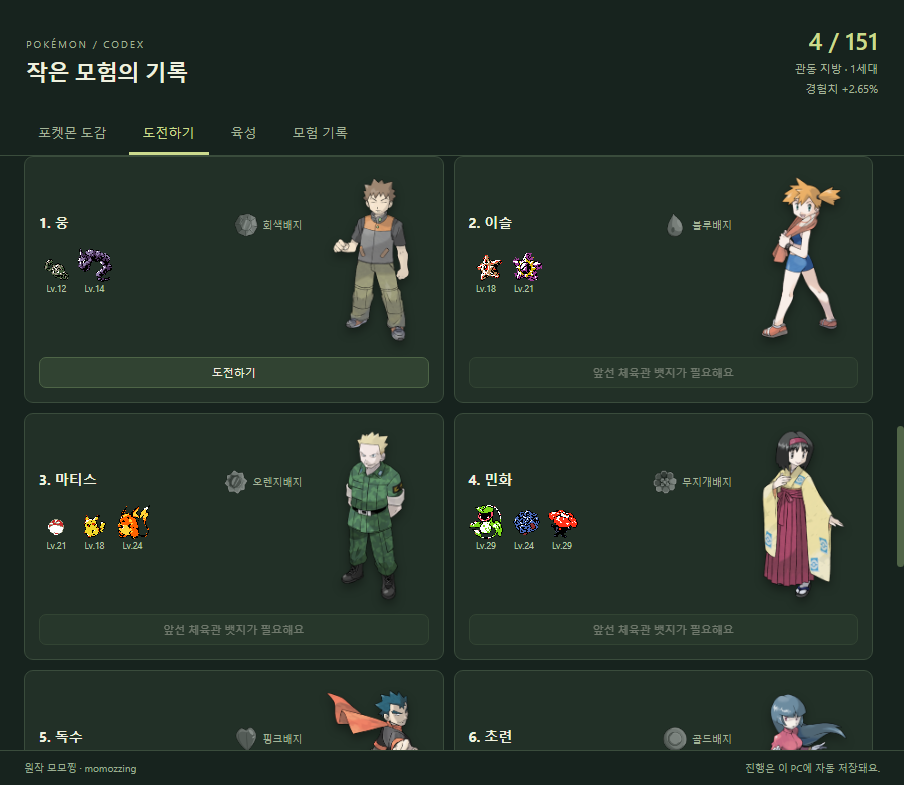
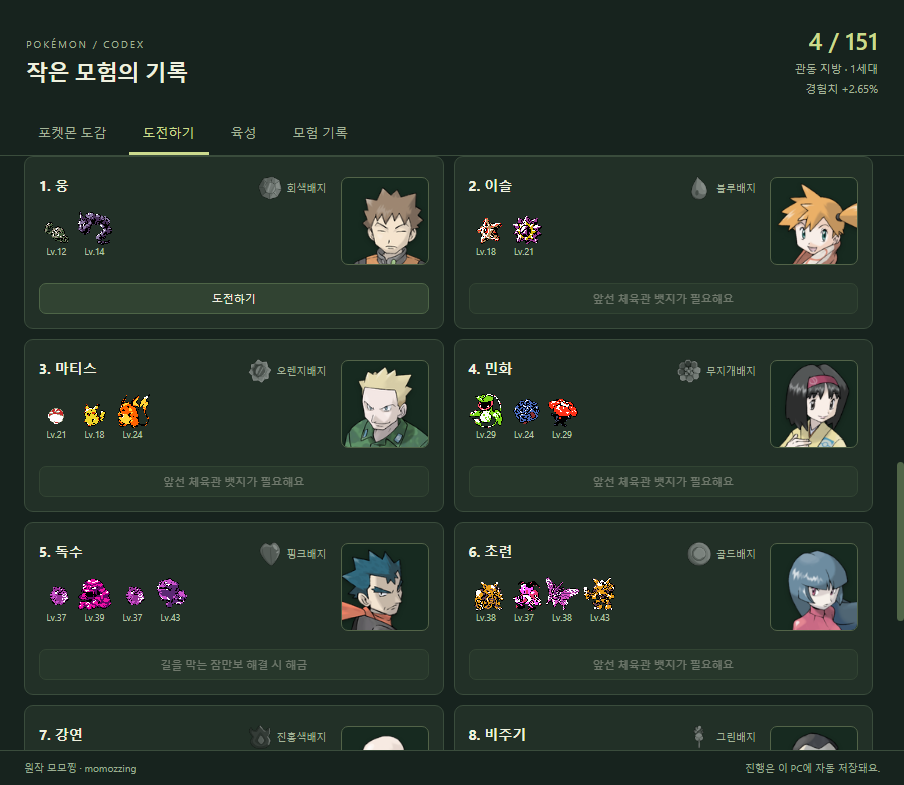
Focus Gym Leader cards on individual face portraits

diff --git a/desktop/panels.css b/desktop/panels.css
@@ -1,5 +1,5 @@
 :root{--bg:#17231e;--panel:#233128;--line:#3a4c3c;--ink:#eef0de;--muted:#a4b499;--accent:#cbda8d;color-scheme:dark}
-.rocket-heading{display:flex;align-items:center;justify-content:space-between;gap:18px;margin-bottom:16px}.rocket-heading h2{margin-bottom:0!important}.rocket-logo{width:64px;height:64px;object-fit:contain;flex-shrink:0;filter:drop-shadow(0 3px 3px #0005)}.gym-body{display:flex;align-items:center;gap:14px;margin-bottom:12px;min-height:174px}.gym-info{flex:1;min-width:0}.gym-info .gym-title{flex-wrap:wrap;align-items:flex-start;gap:7px}.gym-trainer{width:112px;height:174px;object-fit:contain;object-position:center bottom;flex-shrink:0;filter:drop-shadow(0 5px 5px #0005)}@media(max-width:750px){.gym-body{gap:8px;min-height:138px}.gym-trainer{width:80px;height:138px}.rocket-logo{width:54px;height:54px}}
+.rocket-heading{display:flex;align-items:center;justify-content:space-between;gap:18px;margin-bottom:16px}.rocket-heading h2{margin-bottom:0!important}.rocket-logo{width:64px;height:64px;object-fit:contain;flex-shrink:0;filter:drop-shadow(0 3px 3px #0005)}.gym-body{display:flex;align-items:center;gap:14px;margin-bottom:12px;min-height:100px}.gym-info{flex:1;min-width:0}.gym-info .gym-title{flex-wrap:wrap;align-items:flex-start;gap:7px}.gym-portrait{position:relative;overflow:hidden;width:88px;height:88px;flex-shrink:0;border:1px solid #526348;border-radius:7px;background:#172a20}.gym-trainer{position:absolute;height:auto;max-width:none;pointer-events:none;filter:drop-shadow(0 2px 2px #0004)}@media(max-width:750px){.gym-body{gap:10px;min-height:84px}.gym-portrait{width:72px;height:72px}.rocket-logo{width:54px;height:54px}}
 .story-board{padding:18px;margin-bottom:18px;border:1px solid #607253;border-radius:10px;background:#233329}.story-board h2{font-size:18px;margin:8px 0 16px}.story-board>p{font-size:12px;line-height:1.7}.rocket-steps{list-style:none;counter-reset:rocket-step;margin:0;padding:0}.rocket-step{counter-increment:rocket-step;display:flex;align-items:center;gap:13px;padding:12px 0;border-top:1px solid var(--line);min-height:58px}.rocket-step::before{content:counter(rocket-step);display:grid;place-items:center;flex:0 0 26px;height:26px;border:1px solid #56674a;border-radius:50%;font-size:12px;color:var(--muted)}.rocket-step b{flex:1;font-size:13px;line-height:1.6}.rocket-step>.muted{font-size:11px}.rocket-step.done::before{color:var(--accent);border-color:#839550}.rocket-step.done b{color:var(--accent)}.rocket-step button{min-width:96px;font-size:11px;margin:0}.snorlax-encounter{display:flex;align-items:center;gap:20px;padding:12px;background:#172a20;border-radius:7px}.snorlax-sprite{width:80px;height:80px;object-fit:contain;image-rendering:pixelated}.snorlax-body b{font-size:13px}.snorlax-body p{font-size:11px;margin:7px 0}.snorlax-body button{font-size:11px;margin:0}.device-quest>#device-locked{margin:0;font-size:11px}@media(max-width:750px){.story-board{padding:15px}.rocket-step{gap:10px}.rocket-step b{font-size:12px}.rocket-step button{min-width:85px}.snorlax-encounter{gap:14px}}
 .flute-status{display:flex;align-items:center;gap:12px;margin:12px 0;padding:10px;background:#172a20;border-radius:7px}.flute-status img{width:48px;height:48px;image-rendering:pixelated}.flute-status b{font-size:12px;color:var(--accent)}.flute-status p{font-size:11px;line-height:1.6;color:var(--muted);margin:5px 0}
 .device-quest{padding:18px;margin-bottom:18px;border:1px solid #718357;border-radius:10px;background:#233329}.device-heading{display:flex;justify-content:space-between;align-items:center}.device-heading h2{font-size:18px;margin:8px 0}.device-art{width:64px;height:64px;image-rendering:pixelated}.device-quest>p{font-size:12px;color:var(--muted);line-height:1.7}.device-requirements{display:grid;grid-template-columns:1fr 1fr;gap:7px;margin:12px 0}.device-requirement{font-size:11px;padding:8px;background:#172a20;border-radius:5px;color:var(--muted)}.device-requirement.done{color:var(--accent);border-left:3px solid var(--accent)}.story-challenges{display:grid;grid-template-columns:1fr 1fr;gap:10px;margin:15px 0}.story-challenge{padding:12px;border:1px solid var(--line);border-radius:7px;min-width:0}.story-challenge h3{font-size:12px;margin:0}.story-challenge button{width:100%;font-size:11px}.device-controls{border-top:1px solid var(--line);padding-top:14px}.device-controls label{font-size:11px;color:var(--muted)}.device-controls select{width:100%;margin-top:7px;padding:9px;border:1px solid var(--line);border-radius:6px;background:#253729;color:var(--ink)}.device-actions{display:flex;flex-wrap:wrap;gap:8px;margin:10px 0}.device-current{padding:10px;background:#172a20;border-radius:7px;display:flex;align-items:center;gap:12px;font-size:12px;line-height:1.7}.device-current>img{width:56px;height:56px;image-rendering:pixelated}.device-evolutions{display:flex;flex-wrap:wrap;gap:7px;margin-top:7px}.device-evolutions button{font-size:11px}.device-register{width:100%;margin-top:8px;font-size:11px}

diff --git a/desktop/panels.js b/desktop/panels.js
@@ -3,6 +3,8 @@ const $=id=>document.getElementById(id),node=(tag,cls,text)=>{const e=document.c
 let journalTab='summary';
 let state=null,selected=25,memberUid=null,nurserySignature='',tab=new URLSearchParams(location.search).get('tab')||'collection',dexSignature='',detailSignature='',bossSignature='',journalSignature='';
 const img=(id,cls='')=>{const e=node('img',cls);e.src='assets/'+id+'.gif';e.alt='';return e;};
+// Original image width, then the square viewport's x/y/size in source pixels.
+const trainerFaces={brock:[196,52,5,104],misty:[228,61,7,112],surge:[156,22,1,110],erika:[198,22,3,114],koga:[217,113,5,103],sabrina:[216,17,13,112],blaine:[273,24,18,112],giovanni:[179,25,5,112]};
 function switchTab(value){tab=['collection','challenge','journal','daycare'].includes(value)?value:'collection';for(const e of document.querySelectorAll('.page'))e.hidden=e.id!==tab;for(const b of document.querySelectorAll('[data-tab]'))b.setAttribute('aria-selected',String(b.dataset.tab===tab));render();}
 for(const b of document.querySelectorAll('[data-tab]'))b.onclick=()=>switchTab(b.dataset.tab);
 $('search').oninput=()=>{dexSignature='';render();};$('filter').onchange=()=>{dexSignature='';render();};
@@ -90,7 +92,7 @@ function renderBosses(){
   renderBadgeCase();
   $('gyms').replaceChildren(...state.bosses.slice(0,8).map((boss,i)=>{
     const done=state.badges.includes(boss.id),card=node('article','gym'+(done?' done':'')),title=node('div','gym-title'),badge=node('span','badge');badge.append(badgeImage(boss,'gym-badge'),document.createTextNode(boss.badge));title.append(node('h3','',(i+1)+'. '+boss.name),badge);
-    const body=node('div','gym-body'),info=node('div','gym-info'),portrait=node('img','gym-trainer');portrait.src='assets/trainers/'+boss.id+'.png';portrait.alt=boss.name+' · 파이어레드·리프그린 원작 일러스트';portrait.draggable=false;info.append(title,teamMembers(boss.team));body.append(info,portrait);card.append(body);
+    const body=node('div','gym-body'),info=node('div','gym-info'),face=node('div','gym-portrait'),portrait=node('img','gym-trainer'),[width,x,y,size]=trainerFaces[boss.id];portrait.src='assets/trainers/'+boss.id+'.png';portrait.alt=boss.name+' · 원작 얼굴 초상화';portrait.draggable=false;portrait.style.width=width/size*100+'%';portrait.style.left=-x/size*100+'%';portrait.style.top=-y/size*100+'%';face.dataset.trainer=boss.id;face.append(portrait);info.append(title,teamMembers(boss.team));body.append(info,face);card.append(body);
     const roadLocked=i===4&&!state.trainingDevice.routeOpen,b=node('button','',done?'뱃지 획득 완료':queued?.index===i?'도전 예약됨':roadLocked?'길을 막는 잠만보 해결 시 해금':i>state.badges.length?'앞선 체육관 뱃지가 필요해요':'도전하기');b.dataset.challenge=i;b.disabled=done||busy||!!queued||!state.gymAccess[i];b.onclick=()=>window.buddy.action('challenge',i);card.append(b);return card;
   }));
   $('ongoing').hidden=!busy&&!queued;

diff --git a/README.md b/README.md
@@ -6,7 +6,7 @@
 
 **[Windows 실행 파일 받기 · 최신 릴리스](https://github.com/Bakzzi/Pokemon_codex/releases/latest)**
 
-릴리스의 `Pokemon-Codex-0.3.26-portable.zip`을 받아 압축을 풀고 `PokemonCodex.exe`를 실행하세요. ZIP 안의 폴더와 파일을 함께 유지하면 됩니다. 소스 코드 ZIP은 실행 파일 배포본과 다릅니다.
+릴리스의 `Pokemon-Codex-0.3.27-portable.zip`을 받아 압축을 풀고 `PokemonCodex.exe`를 실행하세요. ZIP 안의 폴더와 파일을 함께 유지하면 됩니다. 소스 코드 ZIP은 실행 파일 배포본과 다릅니다.
 
 ![코딩과 함께하는 포켓몬 위젯](docs/screenshots/widget.png)
 
@@ -142,9 +142,9 @@ PokeAPI의 파이어레드·리프그린 레벨업 기술표, 3세대 당시 위
 
 **관동 뱃지 홀더**에 여덟 뱃지가 두 줄로 놓입니다. 미획득 칸은 해당 뱃지 모양으로 파인 빈 홈이며, 관장에게 승리하면 실제 뱃지 이미지가 자리 잡고 짧게 빛납니다. 기존에 얻은 뱃지도 저장된 획득 상태에 맞춰 나타납니다. 뱃지 칸을 누르면 해당 체육관으로 이동합니다.
 
-로켓단 아지트에는 원작 R 마크를 표시하며, 여덟 관장 카드에는 파이어레드·리프그린 원작 일러스트를 이름·뱃지·포켓몬 편성과 함께 표시합니다. 그림은 앱에 포함해 로컬에서 불러옵니다. 원본 출처와 파일 해시는 `desktop/assets/trainers/sources.json`, `desktop/assets/logos/sources.json`에 기록했습니다.
+로켓단 아지트에는 원작 R 마크를 표시하며, 여덟 관장 카드에는 파이어레드·리프그린 원작 일러스트의 **얼굴 부분을 초상화로** 표시합니다. 관장마다 얼굴 위치를 맞추고 이름·뱃지·포켓몬 편성과 함께 배치합니다. 그림은 앱에 포함해 로컬에서 불러옵니다. 원본 출처와 파일 해시는 `desktop/assets/trainers/sources.json`, `desktop/assets/logos/sources.json`에 기록했습니다.
 
-![관장 원작 일러스트와 도전 카드](docs/screenshots/gym-leaders.png)
+![관장 얼굴 초상화와 도전 카드](docs/screenshots/gym-leaders.png)
 
 ![관동 뱃지 홀더](docs/screenshots/badge-case.png)
 
